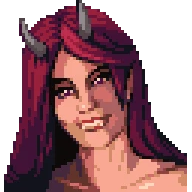
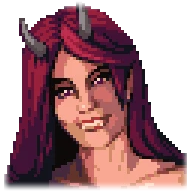
Feather every portrait, so none of them ends on a cut
Taking the frame off the speaker showed what the frame had been hiding.
These busts are cropped tight against their own edges: measured across
all twenty-four, the bottom row is solid paint on 20 of them, the top row
on 19, and the sides on 7 - the wizards run 86% along the top and 66%
down the left. Inside a bordered plate that never showed, because the
border drew a line there anyway. Standing free, and now rising above the
box, each one ended on a guillotine cut - and the cut at the TOP is the
one that reads worst, because that is the part hanging in open air.

So the outer 5.5% of each edge is ramped out with a smoothstep, in the
art rather than in CSS: a mask would have needed mask-composite to fade
more than one edge, which is exactly the sort of thing Safari is uneven
about, and this way every browser gets the same picture. Where the art
already stopped short of an edge its alpha there is zero and nothing
changes; where it was cut, the cut becomes a fade. It costs between 0.2%
and 3.5% of the opaque area. Portraits still ending on a cut edge: 0/24,
from 22/24.

bloom needed more than a fade. She was cropped far tighter than the rest
- her face filled the square where the others are head and shoulders -
and a flat green sleeve took the bottom-right corner, reading as a block
rather than as clothing. Re-squared off the left of the original, which
keeps the face and the flower crown and loses the wedge, and she now sits
in line with the others.
[…]

Changed region(s): [[0.0, 0.7812, 1.0, 1.0], [0.3125, 0.0, 0.4688, 0.0625]]

diff --git a/public/js/game.js b/public/js/game.js
@@ -1440,12 +1440,18 @@ let speaking  = null;
 /* Who is talking. Each NPC names a bust in assets/faces; the ones with
    no bust yet - the men who are not in full armour - simply show none,
    and the box closes up around the text. */
+/* The portraits are fetched by name at the moment somebody speaks, so
+   unlike the stylesheet and the script they carry no version in the page.
+   Bumped when the art itself changes, or a returning visitor keeps the
+   copy their browser already has. */
+const ART_V = 'v=63';
+
 const sayFace = document.getElementById('sayFace');
 
 function showFace(n) {
   if (!sayFace) return;
   if (!n.face) { sayFace.hidden = true; sayFace.removeAttribute('src'); return; }
-  const want = 'assets/faces/' + n.face + '.png';
+  const want = 'assets/faces/' + n.face + '.png?' + ART_V;
   if (!sayFace.src.endsWith(want)) sayFace.src = want;
   sayFace.hidden = false;
 }

diff --git a/public/index.html b/public/index.html
@@ -9,7 +9,7 @@
 <link rel="preconnect" href="https://fonts.googleapis.com">
 <link rel="preconnect" href="https://fonts.gstatic.com" crossorigin>
 <link href="https://fonts.googleapis.com/css2?family=Press+Start+2P&display=swap" rel="stylesheet">
-<link rel="stylesheet" href="css/style.css?v=62">
+<link rel="stylesheet" href="css/style.css?v=63">
 </head>
 <body>
 
@@ -606,7 +606,7 @@
 </div>
 
 
-<script src="js/gifdec.js?v=62"></script>
-<script src="js/game.js?v=62"></script>
+<script src="js/gifdec.js?v=63"></script>
+<script src="js/game.js?v=63"></script>
 </body>
 </html>
